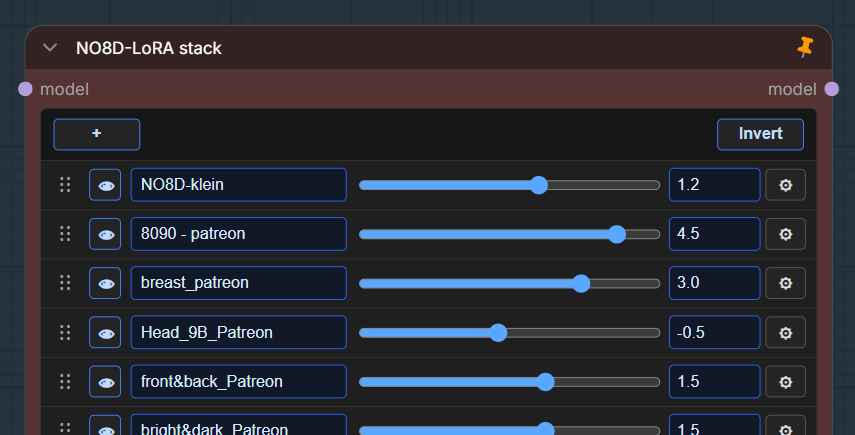
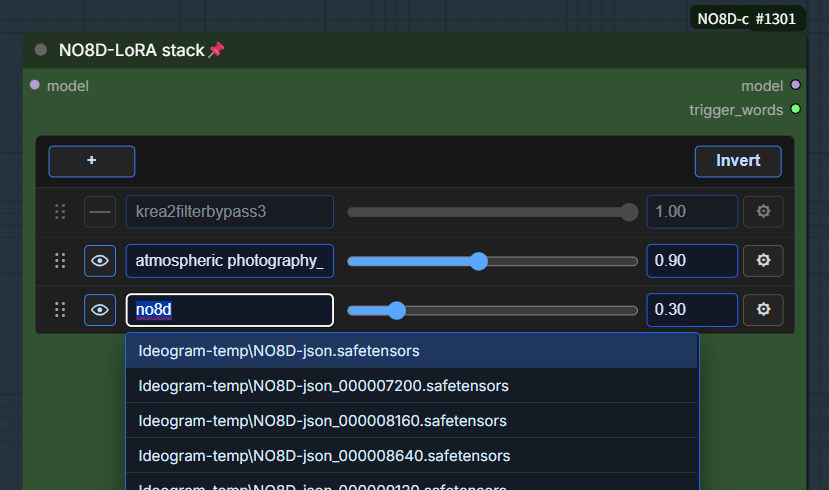
Update LoRA stack README image

diff --git a/README.md b/README.md
@@ -54,6 +54,8 @@ NO8D-Load-images -> NO8D-Prompt -> NO8D-Prompt-view / NO8D save
 
 Applies multiple LoRAs to a model without requiring a CLIP input.
 
+![NO8D-LoRA stack](docs/images/stack-node.png)
+
 - Add, delete, enable, disable, and reorder LoRAs in one node.
 - Adjust LoRA strength with a slider or a number box.
 - Customize each slider's minimum and maximum value.

diff --git a/README.zh-CN.md b/README.zh-CN.md
@@ -51,6 +51,8 @@ NO8D-图像载入 -> NO8D-提示词 -> NO8D-提示词预览 / NO8D-图文保存
 
 用于在一个节点中组合多个 LoRA，并输出应用 LoRA 后的模型。
 
+![NO8D-LoRA 堆栈](docs/images/stack-node.png)
+
 - 在一个节点里添加、删除、启用、关闭和排序多个 LoRA。
 - 用滑条或数字框调整每个 LoRA 的权重。
 - 每个 LoRA 可以设置独立的最小值和最大值。